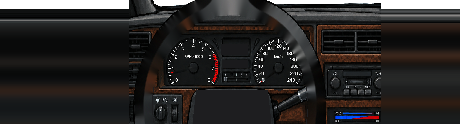
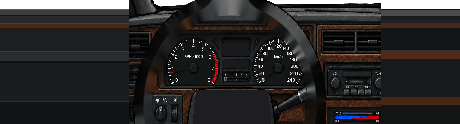
Viatura: mostradores nítidos e laterais da cabine em pixel art
- Conta-giros e velocímetro redesenhados nítidos sobre a arte (reduzida, ela
  borrava), na mesma escala da arte e com números em pixel inteiro.
- Fora da arte: porta à esquerda (soleira, friso de madeira, apoio de braço) e
  painel continuando à direita, em faixas de cor lisa tiradas da arte, no lugar
  da borda esticada e borrada.

Claude-Session: https://claude.ai/code/session_01MLD9VR7gkmY4w6a9beZcp6

diff --git a/src/cockpit.ts b/src/cockpit.ts
@@ -40,7 +40,7 @@ interface CockpitArt {
 // fração da escala onde começa a faixa vermelha
 // face: false = o mostrador da arte já é legível, o jogo só desenha o ponteiro;
 // a0/sweep: onde começa a escala e quanto ela abre (padrão 135° e 270°)
-interface Dial { x: number; y: number; r: number; max: number; labels: number[]; tick: number; red: number; face?: boolean; a0?: number; sweep?: number }
+interface Dial { x: number; y: number; r: number; max: number; labels: number[]; tick: number; red: number; face?: boolean; a0?: number; sweep?: number; labelScale?: number }
 
 // Mostradores auxiliares, também redesenhados: 'single' (um ponteiro), 'dual' (dois
 // ponteiros no mesmo eixo, em V), 'twin' (dois eixos lado a lado) e 'clock' (relógio)
@@ -83,9 +83,10 @@ const COCKPIT_ART: Record<string, CockpitArt> = {
 COCKPIT_ART.patrol = {
   dash: cp('patrol-dash'), top: cp('patrol-top'), wheel: cp('patrol-wheel'),
   pivot: [128, 105.6], speedMax: 240, needle: '#ff2a1a', hub: '#1a1a1c', aux: [],
-  // escalas medidas na arte: do 0 (146°) ao fim (≈ 36°), 250° de abertura
-  tach: { x: 91, y: 66, r: 25, max: 8, labels: [], tick: 1, red: 6, face: false, a0: 2.55, sweep: 4.36 },
-  speed: { x: 176, y: 66, r: 25, max: 240, labels: [], tick: 20, red: 999, face: false, a0: 2.55, sweep: 4.36 },
+  // redesenhados nítidos sobre a arte (reduzida, ela borra); escala como na arte: do 0 (146°)
+  // ao fim (≈ 36°), 250° de abertura, números em pixel inteiro
+  tach: { x: 91, y: 66, r: 25, max: 8, labels: [0, 1, 2, 3, 4, 5, 6, 7, 8], tick: 0.5, red: 6, a0: 2.55, sweep: 4.36, labelScale: 1 },
+  speed: { x: 176, y: 66, r: 25, max: 240, labels: [0, 40, 80, 120, 160, 200, 240], tick: 10, red: 999, a0: 2.55, sweep: 4.36, labelScale: 1 },
   odo: { x: 119, y: 44, w: 27, h: 11 }, prnd: { x: 120, y: 60, w: 26, h: 8 },
 };
 
@@ -205,8 +206,9 @@ function artDial(c: CanvasRenderingContext2D, d: Dial, ox: number, frac: number,
     // recua do aro só o quanto o número ocupa na direção do centro (largura nas laterais,
     // altura no alto), para os de cima não se encostarem
     const a = fr(v);
-    const [lx, ly] = at(a, r - 2.3 - Math.abs(Math.cos(a)) * pixWidth(l, 0.5) * 0.5 - Math.abs(Math.sin(a)) * 1.25);
-    pix(c, l, lx, ly, v >= d.red ? '#ff5a4a' : '#f2f2f2', 0.5);
+    const ls = d.labelScale ?? 0.5;
+    const [lx, ly] = at(a, r - 2.3 - (Math.abs(Math.cos(a)) * pixWidth(l, ls) * 0.5 + Math.abs(Math.sin(a)) * 2.5 * ls) * (ls > 0.5 ? 1.3 : 1) - (ls > 0.5 ? 0.6 : 0));
+    pix(c, l, lx, ly, v >= d.red ? '#ff5a4a' : '#f2f2f2', ls);
   }
   needle(c, cx, cy, r, a0 + sweep * Math.max(0, Math.min(1.02, frac)), art);
 }

diff --git a/tools/ref/import_cockpit.py b/tools/ref/import_cockpit.py
@@ -41,8 +41,19 @@ CARS = {
         'lcd': [((26, 26, 28), (462, 389, 598, 438)), ((26, 26, 28), (466, 462, 598, 494))],
         'top_art': [],  # coluna da porta segue a arte até o teto
         'left': 'replicate', 'right': 'replicate',
-        'sky_above': 236,
-        'pad_blur': (300, 18),   # nas colunas repetidas, acima do painel é vidro (estrada à vista)
+        'sky_above': 236,   # nas colunas fora da arte, acima do painel é vidro (estrada à vista)
+        # fora da arte: à esquerda a porta, à direita o painel continua (faixas de cor lisa,
+        # tons tirados da arte; linhas da imagem original)
+        'pad_bands': {
+            'left': [(236, 240, '#5a5c5e'), (240, 262, '#3a3c3e'), (262, 268, '#121416'), (268, 300, '#26282a'),
+                     (300, 304, '#5e3422'), (304, 322, '#49271b'), (322, 326, '#2e180f'), (326, 420, '#1c1e20'),
+                     (420, 426, '#3c3e40'), (426, 466, '#2a2c2e'), (466, 472, '#0e1012'), (472, 640, '#1a1c1e'),
+                     (640, 646, '#2e3032'), (646, 2000, '#121314')],
+            'right': [(236, 240, '#121517'), (240, 270, '#4a4c4e'), (270, 282, '#191b1c'), (282, 300, '#1e2022'),
+                      (300, 322, '#49271b'), (322, 418, '#141516'), (418, 422, '#39302a'), (422, 458, '#4d2a19'),
+                      (458, 620, '#18191a'), (620, 658, '#472617'), (658, 820, '#131414'), (820, 856, '#3a1f13'),
+                      (856, 2000, '#141516')],
+        },
         'hub_fill': ((30, 30, 32), 575),   # atrás do miolo do volante: coluna de direção escura, sem borrão
     },
     # Corvette C4: painel digital (os visores de LCD são redesenhados funcionando no jogo)
@@ -89,11 +100,11 @@ def main():
     padcols = np.zeros(canvas.shape[1], bool)  # colunas que não vêm da arte
     if cfg.get('left') == 'replicate': padcols[:pad_x0] = True
     if cfg.get('right') == 'replicate' and pad_x1: padcols[-pad_x1:] = True
-    if 'pad_blur' in cfg:  # a borda repetida corta saídas de ar e botões: vira listras; suaviza na vertical
-        ys, sig = cfg['pad_blur']
-        ys += tpad
-        soft = cv2.GaussianBlur(canvas, (1, 0), sigmaX=0.1, sigmaY=sig)
-        canvas[ys:, padcols] = soft[ys:, padcols]
+    for side, bands in cfg.get('pad_bands', {}).items():  # porta / painel em faixas lisas (pixel art)
+        cols = slice(0, pad_x0) if side == 'left' else slice(canvas.shape[1] - pad_x1, canvas.shape[1])
+        for a, b, hexc in bands:
+            bgr = [int(hexc[i:i + 2], 16) for i in (5, 3, 1)]
+            canvas[max(0, a + tpad):max(0, b + tpad), cols] = bgr
     if 'fill_left' in cfg:  # espelhar daria um "bico" (pilar dobrado): faz uma coluna lisa
         canvas[:, :pad_x0] = cfg['fill_left']
     img = canvas[y0:y1, x0 + pad_x0:x1 + pad_x0].copy()
